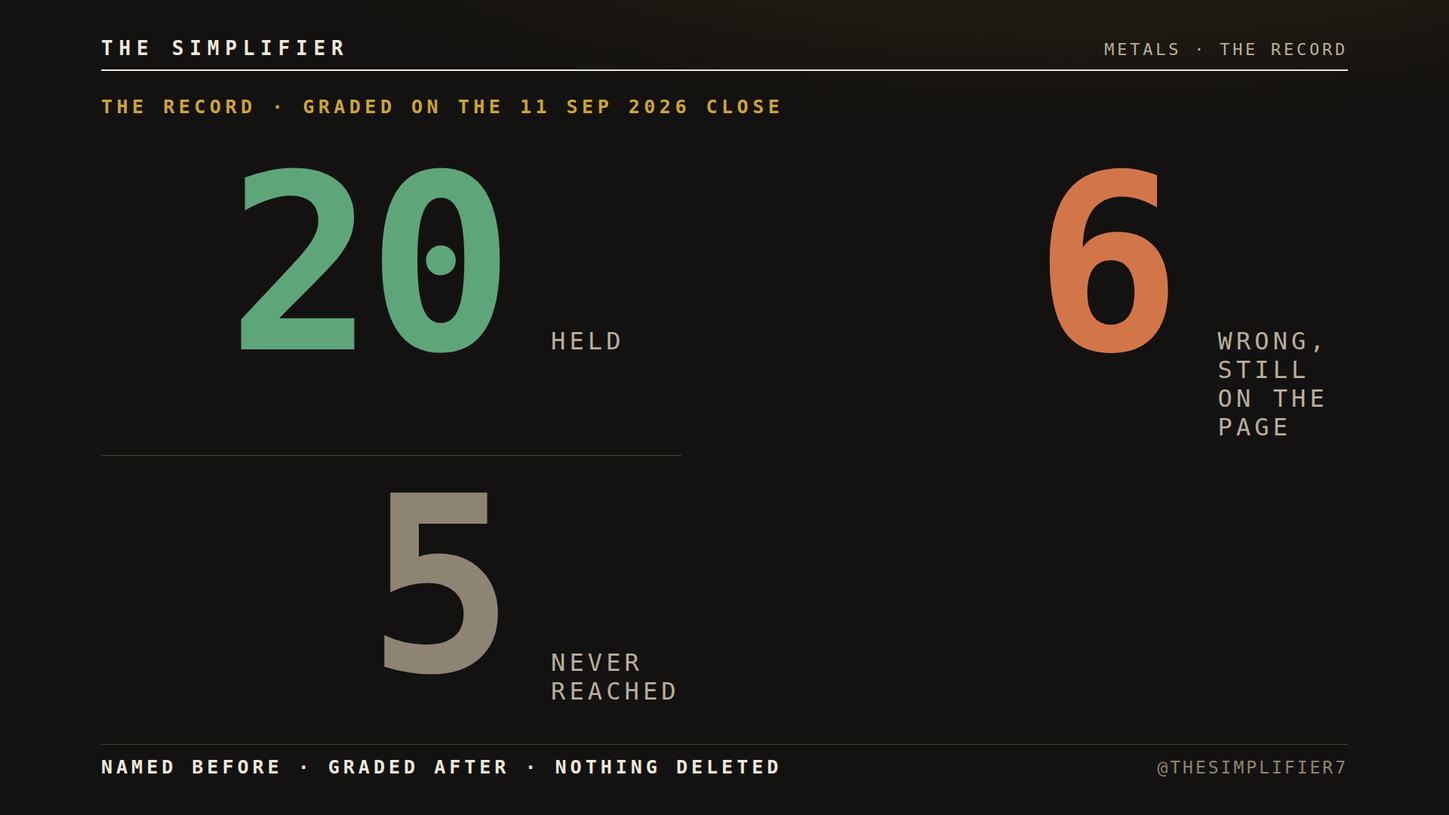
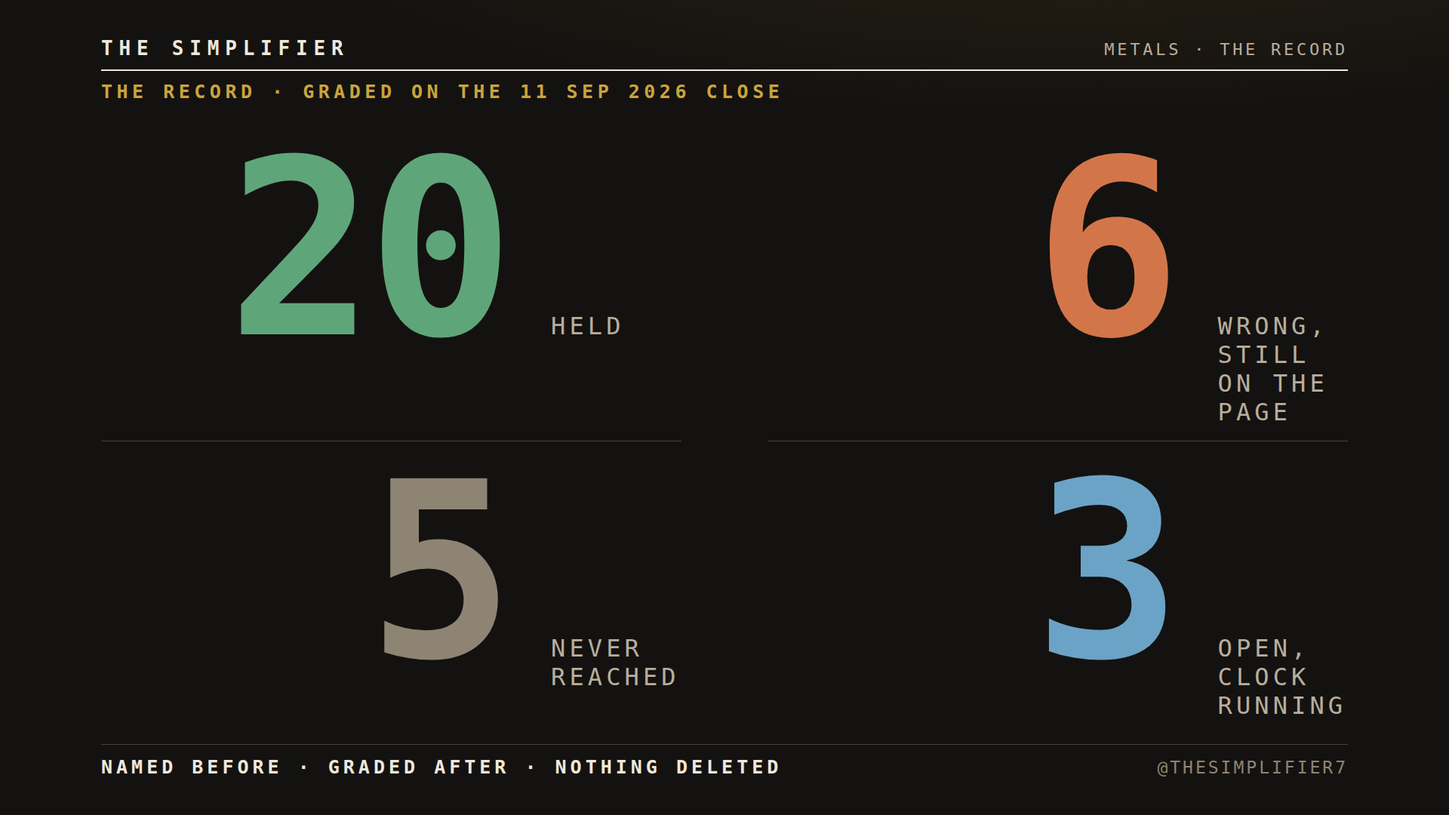
Add files via upload

diff --git a/misses.html b/misses.html
@@ -76,7 +76,7 @@ if(t==="light")document.documentElement.setAttribute("data-theme","light");})();
   </nav>
   <h1>The ones I got wrong.</h1>
   <p class="stand">You have followed a gold call that was wrong and watched it disappear. These did not. Every call on the record that the close proved wrong, in full: the level as named, the kill published with it before the week, the close that fired it, and everything written about it afterwards. They are here because a record that keeps only its wins is not a record.</p>
-  <p class="tally"><b>6</b> wrong · <b>20</b> held · <b>5</b> never reached · 31 rows on the record. The wrong ones are 23 percent of the 26 resolved, stated beside its base because a percentage on a base this size is a small sample and should be read as one.</p>
+  <p class="tally"><b>6</b> wrong · <b>20</b> held · <b>5</b> never reached · <b>3</b> open · 34 rows on the record. The wrong ones are 23 percent of the 26 resolved, stated beside its base because a percentage on a base this size is a small sample and should be read as one.</p>
 
   <section class="miss" id="miss-1">
     <div class="head">
@@ -99,7 +99,7 @@ if(t==="light")document.documentElement.setAttribute("data-theme","light");})();
       </div>
     </div>
     <div class="notes"><div class="lab">What was written about it afterwards</div><details><summary>Note 03 · Correction, 18 July 2026.</summary><p>The Verdict posted 17 July graded the 12 July gold floor claim a pass. The published kill, a weekly close beneath 4,098, had in fact fired at 4,018.44. The correct grade is a miss and the ledger carries it. A third claim from the same map, the stair at 4,305.32, went ungraded in that Verdict and is stated here as no test. The erroneous grades, this correction, and the grading process failure behind them are all logged and all remain.</p></details></div>
-    <p class="row-link"><a href="index.html#lrow-20">This row on the record</a> · <a href="https://github.com/TheSimplifier7/record/commit/a500967">the commit that graded it</a></p>
+    <p class="row-link"><a href="index.html#lrow-23">This row on the record</a> · <a href="https://github.com/TheSimplifier7/record/commit/a500967">the commit that graded it</a></p>
   </section>
 
   <section class="miss" id="miss-2">
@@ -123,7 +123,7 @@ if(t==="light")document.documentElement.setAttribute("data-theme","light");})();
       </div>
     </div>
     
-    <p class="row-link"><a href="index.html#lrow-11">This row on the record</a> · <a href="https://github.com/TheSimplifier7/record/commit/5d671f6">the commit that graded it</a></p>
+    <p class="row-link"><a href="index.html#lrow-14">This row on the record</a> · <a href="https://github.com/TheSimplifier7/record/commit/5d671f6">the commit that graded it</a></p>
   </section>
 
   <section class="miss" id="miss-3">
@@ -147,7 +147,7 @@ if(t==="light")document.documentElement.setAttribute("data-theme","light");})();
       </div>
     </div>
     <div class="notes"><div class="lab">What was written about it afterwards</div><details><summary>Note 08 · Resolution, 7 August 2026. Two wrongs, one untested, and the swing clock in gold turns.</summary><p>Friday 7 August close (TradingView TVC, 23:00 CET): gold 4,342, silver 63.45. The standing ceiling claims at gold 4,098.275 and silver 61.02 both had their kills fire; both are graded wrong and stay on the page. Gold 3,942.430 was never reached and is stated as no test. Gold has been bearish since 13 March. That structure ended on the 7 August close above the 464 swing slow mean at 4,268. From that close the swing clock in gold turns bullish; a weekly close back below 4,268 now kills the new call. Silver remains below its own swing line and continues under the prior claim. Graded per metal under the ruling made before the close. Two rulings disclosed: the swing kill that named both metals in one sentence is graded per metal, and silver 61.02 receives its grade under the same standard applied to every gold restatement. Both rulings taken in the direction that costs this desk more. Tally after this close: twelve correct, three wrong, three never tested.</p></details></div>
-    <p class="row-link"><a href="index.html#lrow-12">This row on the record</a> · <a href="https://github.com/TheSimplifier7/record/commit/5d671f6">the commit that graded it</a></p>
+    <p class="row-link"><a href="index.html#lrow-15">This row on the record</a> · <a href="https://github.com/TheSimplifier7/record/commit/5d671f6">the commit that graded it</a></p>
   </section>
 
   <section class="miss" id="miss-4">
@@ -171,7 +171,7 @@ if(t==="light")document.documentElement.setAttribute("data-theme","light");})();
       </div>
     </div>
     <div class="notes"><div class="lab">What was written about it afterwards</div><details><summary>Note 02 · Standing calls, added 31 July 2026.</summary><p>The directional position runs on a longer clock than a level and resolves on a different question, so it is stated separately and graded separately. Standing calls never enter the tally: averaging a call that runs for months with one that resolves on a Friday would flatter both. Each carries the close that ends it, and every figure beside it carries the date it is measured from. When one ends it stays, with the date and what ended it.</p></details><details><summary>Note 11 · Resolution, 28 August 2026. Two held, one broke, platinum&#39;s first grade, and a ruling on what ends a swing call.</summary><p>Friday 28 August close (TradingView TVC, market shut, read 02:02 to 02:04 CEST on 29 August): gold 4,453.670, silver 66.3700, platinum 1,821.80. Three floors were named on Sunday 23 August with the market shut, each published with the weekly close that would kill it. The gold call passes; the 464 swing slow mean read 4,308.037, the same read as 21 August, and the close sat 145.63 above it. The platinum call passes on the first platinum row this page has ever carried; the line read 1,790.84, the same read as the level named on Sunday, and the close sat 30.96 above it, same method, same rule, third metal. The silver call fails; the line read 66.6600 and the close printed 66.3700, 0.29 under it, so the kill fired exactly as it was published on Sunday night. The row grades wrong and it stays, where every wrong row on this page stays. The standing week-to-week call is restated, not ended, and on 29 August it was restated a second time by a ruling that reached it and not the rows. THE SWING CLOCK TURNS ON A CROSS, NOT A PRICE CLOSE: what dates a turn is the epoch midline crossing the slow mean reversion line, and position against the line is the confirmation, never the trigger. That is not a new idea on this page, it is the standard already applied to the secular clock since 1 August under note 06, extended by the founder to the swing clock and read on his own chart on 29 August. Under it, silver&#39;s swing claim did not end on the 28 August close. Silver closed 0.29 under its line and the structure never turned, so the standing direction stands in all three metals. THE RULING DOES NOT REACH THE ROW, and the distinction is the reason this note is long. The weekly rows are a different object on a different clock: each names a level before the week and publishes a price close as the kill, and each is graded on exactly what it published. The silver row of 23 August named a weekly close back below 66.66 as its kill, the close printed 66.3700, and that kill fired. The row grades WRONG and it stays wrong. Note 01 has said since 3 July that no grade is ever restamped to fit a rulebook written after it, and note 03 is the precedent where this desk applied that in the direction that cost it a win. A desk that re-reads its own rulebook on a Saturday and finds its Friday loss was never a loss has stopped keeping a record. The tally is unchanged by the ruling: eighteen correct, four wrong. What the ruling does change, and this is the process defect worth naming, is that the Sunday rows have been publishing a kill that does not match the method the desk actually trades. The row&#39;s kill was honest, published and fired; it was also the wrong question to ask of a swing claim. From the next Sunday call, a row naming swing direction states the event that truly ends it, and a row naming a price level keeps a price kill and says which of the two it is. Gold&#39;s mark is 2.57% above the 7 August close, down from 6.00% last week. The entry keeps the status live and keeps its stated date of 21 August because nothing was newly stated tonight. Two disclosures with it. First, the paragraph under the standing calls told every reader that silver continues under its own line. That sentence was written on 7 August and was true then. It stopped being true on the 21 August close and was not moved with the entry that night, so it stood stale for one week. It is corrected tonight and logged rather than tidied. Second, platinum&#39;s close and its line read were entered separately from gold&#39;s and silver&#39;s, off the founder&#39;s own chart, because the capture taken at the close had the chart&#39;s own label covered. Platinum&#39;s swing clock is dated from the 19 August close, read off the same chart and supplied on 29 August; for one day this page carried platinum with a graded row and no dated clock, and said so rather than inventing a start. The grade was never in doubt; the two prints were, and they were read before this note published. Tally after this close: eighteen correct, four wrong, five never tested, twenty-seven rows, nothing open.</p></details></div>
-    <p class="row-link"><a href="index.html#lrow-5">This row on the record</a> · <a href="https://github.com/TheSimplifier7/record/commit/2e4ddff">the commit that graded it</a></p>
+    <p class="row-link"><a href="index.html#lrow-8">This row on the record</a> · <a href="https://github.com/TheSimplifier7/record/commit/2e4ddff">the commit that graded it</a></p>
   </section>
 
   <section class="miss" id="miss-5">
@@ -195,7 +195,7 @@ if(t==="light")document.documentElement.setAttribute("data-theme","light");})();
       </div>
     </div>
     <div class="notes"><div class="lab">What was written about it afterwards</div><details><summary>Note 26 · Resolution, 11 September 2026. Two floors broke, both by less than ten dollars, and both stay.</summary><p>Friday 11 September close, read off the founder&#39;s 8h TVC charts stamped 12 September with the market shut, 03:09 CEST for gold and 03:10 for silver and platinum: gold 4,347.760, silver 64.4810, platinum 1,791.50. Two floors were named on 6 September before the week opened, each published with the weekly close that would kill it, and both kills fired. GOLD. The floor was 4,357, taken from a line labelled 4,357.307 and rounded down to the dollar. The close printed 4,347.760, which is 9.24 under the number as published and 9.547 under the line as it reads tonight, unchanged from Sunday. MISS. The rounding is disclosed because the Sunday session raised it as a standard question: rounding a floor down makes the test easier by the cents dropped, 30.7 of them this week. It did not decide anything tonight, because the close sat under the label as well as under the number, and it has not decided any grade on this page. Whether floors round up or print to the cent from here is the founder&#39;s ruling and it will be logged as its own note when he makes it; it changes no grade already written. PLATINUM. The floor was 1,797.40, named on 30 August, held on 4 September, and kept for a second week although the line had drifted five cents under it, because a floor does not follow a line down. The close printed 1,791.50, which is 5.90 under the number as published and 5.85 under the line. MISS. Third row for platinum, first wrong. SILVER, THE ROW THAT IS STILL NOT HERE. The door published on 30 August was a weekly close above 66.80. Tonight silver closed 64.4810 with the line reading 66.6878, so the close sat 2.319 under the door and 2.207 under the line. The condition is not met for a third week and silver carries no row again, stated here rather than left as a gap, for the reason note 17 gave. THE STANDING CARD. All three metals closed under their lines on the same night, gold and platinum for the first time since their clocks turned and silver for the third week running. Under the ruling of 29 August that is confirmation moving against the claim and not the event that ends it; the event is the epoch midline crossing the slow mean reversion line, read off the founder&#39;s chart and dated. No such read has been ruled tonight, so the card stands as last read and says so in its own words. If the founder rules a cross on any metal, the state, the date and the reason go on the card and this note is not edited. THE TALLY. Twenty-six rows resolved, twenty held, six wrong, five never reached, none open. The six wrong rows sit in the ledger below in the same type as the twenty, and misses.html lists them alone. THE TICK BOOK. The first rows in the second ledger, tick.html, are written from Monday 14 September, each posted before the trade and graded on that day&#39;s 23:00 close, under note 25 and the rule printed on that page.</p></details></div>
-    <p class="row-link"><a href="index.html#lrow-0">This row on the record</a> · <a href="https://github.com/TheSimplifier7/record/commit/10cf76a">the commit that graded it</a></p>
+    <p class="row-link"><a href="index.html#lrow-3">This row on the record</a> · <a href="https://github.com/TheSimplifier7/record/commit/10cf76a">the commit that graded it</a></p>
   </section>
 
   <section class="miss" id="miss-6">
@@ -219,7 +219,7 @@ if(t==="light")document.documentElement.setAttribute("data-theme","light");})();
       </div>
     </div>
     <div class="notes"><div class="lab">What was written about it afterwards</div><details><summary>Note 26 · Resolution, 11 September 2026. Two floors broke, both by less than ten dollars, and both stay.</summary><p>Friday 11 September close, read off the founder&#39;s 8h TVC charts stamped 12 September with the market shut, 03:09 CEST for gold and 03:10 for silver and platinum: gold 4,347.760, silver 64.4810, platinum 1,791.50. Two floors were named on 6 September before the week opened, each published with the weekly close that would kill it, and both kills fired. GOLD. The floor was 4,357, taken from a line labelled 4,357.307 and rounded down to the dollar. The close printed 4,347.760, which is 9.24 under the number as published and 9.547 under the line as it reads tonight, unchanged from Sunday. MISS. The rounding is disclosed because the Sunday session raised it as a standard question: rounding a floor down makes the test easier by the cents dropped, 30.7 of them this week. It did not decide anything tonight, because the close sat under the label as well as under the number, and it has not decided any grade on this page. Whether floors round up or print to the cent from here is the founder&#39;s ruling and it will be logged as its own note when he makes it; it changes no grade already written. PLATINUM. The floor was 1,797.40, named on 30 August, held on 4 September, and kept for a second week although the line had drifted five cents under it, because a floor does not follow a line down. The close printed 1,791.50, which is 5.90 under the number as published and 5.85 under the line. MISS. Third row for platinum, first wrong. SILVER, THE ROW THAT IS STILL NOT HERE. The door published on 30 August was a weekly close above 66.80. Tonight silver closed 64.4810 with the line reading 66.6878, so the close sat 2.319 under the door and 2.207 under the line. The condition is not met for a third week and silver carries no row again, stated here rather than left as a gap, for the reason note 17 gave. THE STANDING CARD. All three metals closed under their lines on the same night, gold and platinum for the first time since their clocks turned and silver for the third week running. Under the ruling of 29 August that is confirmation moving against the claim and not the event that ends it; the event is the epoch midline crossing the slow mean reversion line, read off the founder&#39;s chart and dated. No such read has been ruled tonight, so the card stands as last read and says so in its own words. If the founder rules a cross on any metal, the state, the date and the reason go on the card and this note is not edited. THE TALLY. Twenty-six rows resolved, twenty held, six wrong, five never reached, none open. The six wrong rows sit in the ledger below in the same type as the twenty, and misses.html lists them alone. THE TICK BOOK. The first rows in the second ledger, tick.html, are written from Monday 14 September, each posted before the trade and graded on that day&#39;s 23:00 close, under note 25 and the rule printed on that page.</p></details></div>
-    <p class="row-link"><a href="index.html#lrow-1">This row on the record</a> · <a href="https://github.com/TheSimplifier7/record/commit/10cf76a">the commit that graded it</a></p>
+    <p class="row-link"><a href="index.html#lrow-4">This row on the record</a> · <a href="https://github.com/TheSimplifier7/record/commit/10cf76a">the commit that graded it</a></p>
   </section>
   <p class="after">Two of these six were the same idea, restated for weeks while it held, and then wrong. The record says so in <a href="index.html#note-13">note 13</a>, which counts the calls by level as well as by week because the weekly count flatters this desk and the level count does not. Read both before you decide what the green rows are worth.</p>
   <p class="law"><a href="index.html">Every row, including these</a> · Named before · Graded after · Nothing deleted</p>

diff --git a/index.html b/index.html
@@ -1311,7 +1311,7 @@
       <div class="lab">Graded wrong, still on this page</div>
     </div>
     <div class="stat">
-      <div class="num blue" id="t-open">0</div>
+      <div class="num blue" id="t-open">3</div>
       <div class="lab">Open, clock running</div>
     </div>
   </section>
@@ -1654,7 +1654,7 @@
    posted call before it goes live. This page is the whole brand in one place.
    ========================================================================= */
 
-const LAST_UPDATED  = "2026-09-13";   /* set by hand, with the commit */
+const LAST_UPDATED  = "2026-09-20";   /* set by hand, with the commit. WAS "2026-09-13" until the 20 September upload */
 
 /* =========================================================================
    PROVENANCE  ·  which commit wrote each grade, added 4 Sep 2026
@@ -1692,6 +1692,10 @@ const PROVENANCE = {
      Graded on the 11 September close, written 12 September. Named by the
      day rather than by a hash because the hash does not exist until the
      push that writes this line; swap in the hash on the next push. */
+  /* Three rows named 20 September, open, written before the week they grade.
+     The week of 13 September carried no rows (note 28), so there is no
+     13 September entry here and none is owed. */
+  "2026-09-20": { written:"2026-09-20", open:true },
   /* WAS, until the hash of the 12 September push was known:
        "2026-09-06": { graded:"2026-09-11", written:"2026-09-12", dayLink:true }, */
   "2026-09-06": { graded:"2026-09-11", written:"2026-09-12", commit:"10cf76a" },
@@ -2254,6 +2258,42 @@ const STANDING = [
 
 const CALLS = [
 
+  /* WEEK OF 20 SEPTEMBER. Three rows, open, written before the week they
+     grade, and the object changes tonight by the founder's ruling (note 29).
+     From this week the rows name the OPENING BOX: the first sixteen hours of
+     each week, boxed and frozen, its edges run right for the rest of the week,
+     drawn by THE METHOD v4.0 shipped 20 September. The 464 swing slow mean
+     floors and the three doors of 13 September are retired as the weekly
+     object. Their last reads on the 18 September close are stated in the
+     block below and in note 29; nothing is deleted.
+
+     Box of the week of 14 September, read off the founder's own 8h TVC charts
+     stamped 20 September, market shut, 23:19 CEST (gold, silver) and 23:20
+     (platinum), published to the dollar and the cent as written on each row:
+       gold      4,251 to 4,337   closed 4,377.290, out the top by 40
+       silver    62.31 to 64.08   closed 66.2210,  out the top by 2.14
+       platinum  1,746 to 1,803   closed 1,800.40, inside, 2.60 under the top
+     A metal that left its box through the top holds the top. Platinum, still
+     inside, holds the bottom, and its top is named on the row so the reader
+     has both edges. Each row is graded on the number as published.
+
+     Where each new line sits against the door it replaces, stated so nobody
+     finds it later: gold 4,337 is 20 under 4,357; silver 64.08 is 2.72 under
+     66.80; platinum 1,746 is 51.40 under 1,797.40.
+
+     Grade Friday 25 September at the 23:00 CEST close. */
+  { date:"2026-09-20", type:"Map", metal:"Gold", level:"4,337", book:"Turn",
+    call:"Gold holds above 4,337, the top of the box it opened the week of 14 September in, read off the 8h chart on 20 September and published as 4,337. The Fed wick of 16 September went under the bottom of that box without a close; gold then left it through the top and finished the week 40 above it at 4,377.290. First row on the opening box, the object the record moves to tonight by the founder's ruling (note 29). Under the ruling in note 11 this is a claim about a price level and not a claim about the swing clock, so it keeps a price kill and it is graded on the close alone. Named before the week opened. Kill: a weekly close below 4,337.",
+    grade:"pending" },
+
+  { date:"2026-09-20", type:"Map", metal:"Silver", level:"64.08", book:"Turn",
+    call:"Silver holds above 64.08, the top of the box it opened the week of 14 September in, read off the 8h chart on 20 September and published as 64.08. Silver left that box through the top and finished the week 2.14 above it at 66.2210. First row for silver since 23 August. The retired door of 66.80 sits 2.72 above this line, and that is said here rather than left for a reader to find (note 29). Under the ruling in note 11 this is a claim about a price level and not a claim about the swing clock, so it keeps a price kill and it is graded on the close alone. Named before the week opened. Kill: a weekly close below 64.08.",
+    grade:"pending" },
+
+  { date:"2026-09-20", type:"Map", metal:"Platinum", level:"1,746", book:"Turn",
+    call:"Platinum holds above 1,746, the bottom of the box it opened the week of 14 September in, read off the 8h chart on 20 September and published as 1,746. Platinum is the one metal that finished the week inside its box, 1,800.40 against a top of 1,803, so the row names the edge that would take it out the bottom and states the top so the reader has both. Fourth row for platinum on this page. Under the ruling in note 11 this is a claim about a price level and not a claim about the swing clock, so it keeps a price kill and it is graded on the close alone. Named before the week opened. Kill: a weekly close below 1,746.",
+    grade:"pending" },
+
   /* WEEK OF 13 SEPTEMBER. No rows. Three conditions. The first week this page
      has carried nothing open, and the absence is the ruling, not a gap.
      The 11 September close graded gold wrong by 9.24 against 4,357 and
@@ -2268,7 +2308,13 @@ const CALLS = [
      Closes read off the founder's own 8h TVC charts stamped 13 September,
      market shut, 21:54 to 21:57 CEST: gold 4,347.760, silver 64.4810,
      platinum 1,791.50. No new figure is named. See note 28.
-     Conditions read Friday 18 September at the 23:00 CEST close. */
+     Conditions read Friday 18 September at the 23:00 CEST close.
+     READ on the 18 September close, off the founder's 8h TVC charts stamped
+     19 September, market shut, 00:06 and 00:07 CEST (note 29): gold 4,377.290,
+     met; platinum 1,800.40, met; silver 66.2210, not met, a fourth Friday.
+     The same night the founder retired the doors with the object they belonged
+     to, so no floor is carried forward from them; the week of 20 September
+     above names the opening box instead, and the last reads stay here. */
 
   /* WEEK OF 6 SEPTEMBER. Two rows, open, written before the week they grade.
      Silver carries no row for a third week: the condition published on 30
@@ -2712,6 +2758,9 @@ const GUEST = [
 ];
 
 const NOTES = [
+  { n:"29", kind:"standard", title:"Map of 20 September 2026. The rows move to the opening box, by the founder's ruling, and the three doors are closed out.",
+    body:"Friday 18 September close, read off the founder's own 8h TVC charts stamped 19 September with the market shut, 00:06 CEST for gold and silver and 00:07 for platinum: gold 4,377.290, silver 66.2210, platinum 1,800.40. No row was open. Note 28 named three conditions in place of rows and said they would be read tonight. Read: gold closed 20.29 above its door of 4,357, met; platinum 3.00 above 1,797.40, met; silver 0.579 under 66.80, not met, the fourth Friday running. THE RULING. On 20 September the founder retired the 464 swing slow mean floors as the object the weekly rows are named on. From tonight the rows name the opening box: the first sixteen hours of each week, Sunday's open through Monday's Asia and London morning, boxed and frozen, with its edges run right for the rest of the week, drawn by THE METHOD v4.0 shipped the same day. A metal that closed the week above the top of its box holds the top. A metal still inside holds the bottom and has its top stated beside it. The kill is what it has always been, a weekly close through the published number, and the grade is on the number as published. THE DOORS ARE CLOSED OUT, NOT CARRIED. Gold and platinum met theirs on this close and would have earned floors back under note 28; those floors are not named, because the object they belonged to is retired the same night, and a floor carried from a retired object would be one number living under two rules. Silver's door was not met on four Fridays and is retired unmet. All three last reads stand in the ledger and here. WHERE THE NEW LINES SIT. Every new line is under the door it replaces and the figures are given so nobody finds them later: gold 4,337 against 4,357, twenty under; silver 64.08 against 66.80, 2.72 under; platinum 1,746 against 1,797.40, 51.40 under. Notes 16, 17 and 28 refused to lower a broken floor within one object, and that rule stands within the new one: a box edge that breaks is not replaced by a lower edge the following Sunday. Tonight is a change of object, ruled and logged, not a lowering inside one. THE BOX OF 14 SEPTEMBER, read off the founder's 8h TVC charts stamped 20 September, market shut, 23:19 CEST for gold and silver and 23:20 for platinum: gold 4,251 to 4,337, the Fed wick of 16 September under the bottom without a close, the week closed out the top by 40; silver 62.31 to 64.08, closed out the top by 2.14; platinum 1,746 to 1,803, closed inside, 2.60 under the top. Published to the dollar and to the cent as written on each row and graded on those numbers. THE STANDING CARD stands at the 11 September read. It is graded on the swing clock, a different object on a different rule, and the 18 September charts carried no read of its line, so it is not refreshed tonight rather than refreshed against a line nobody read. Stated here the way note 19 stated a stale card on 6 September. Three rows are named for the week of 20 September, gold 4,337, silver 64.08 and platinum 1,746, written to this file before the week opened." },
+
   { n:"28", kind:"standard", title:"Map of 13 September 2026. Three doors and no floor, the first week with nothing open.",
     body:"The 11 September close graded gold and platinum wrong by 9.24 and 5.90 (note 26). Silver's floor broke on 28 August by 3.3 percent (note 11), and the map of 30 August did not replace it with a lower number; it published a door, a weekly close above 66.80, and the door has not been met on three Fridays or lowered on any of them (notes 16, 17). Tonight the same rule is applied to gold and platinum. A broken floor is not replaced by a lower one. Gold's door is 4,357 and platinum's is 1,797.40, the numbers that broke, and neither comes down to meet the price. The rule was written at a 3.3 percent break and is applied at 0.21 and 0.33 without adjustment, because a rule that is obeyed only when it costs nothing is not a rule. No row is named tonight. This is the first week the page carries nothing open, and the absence is stated here rather than left for a reader to explain to himself. The three conditions are read on the 18 September close: a metal whose weekly close prints above its door earns a floor back on the map of 20 September, read off the chart that night. The fixed frame of the Sunday map, one number on the page, is not spoken this week; the reason there is none takes its place. Closes read off the founder's own 8h TVC charts stamped 13 September with the market shut, 21:54 to 21:57 CEST: gold 4,347.760, silver 64.4810, platinum 1,791.50." },
 

diff --git a/tally_card_vertical_dark.html b/tally_card_vertical_dark.html
@@ -45,7 +45,7 @@
       <div class="stat"><span class="num pass">20</span><span class="lab">held</span></div>
       <div class="stat"><span class="num miss">6</span><span class="lab">wrong, still on the page</span></div>
       <div class="stat"><span class="num nr">5</span><span class="lab">never reached</span></div>
-      
+      <div class="stat"><span class="num open">3</span><span class="lab">open, clock running</span></div>
     </div>
   </div>
   <div class="foot stack"><span class="law">Named before · Graded after · Nothing deleted</span><span class="handle">@TheSimplifier7</span></div>

diff --git a/tally_card_landscape_dark.html b/tally_card_landscape_dark.html
@@ -45,7 +45,7 @@
       <div class="stat"><span class="num pass">20</span><span class="lab">held</span></div>
       <div class="stat"><span class="num miss">6</span><span class="lab">wrong, still on the page</span></div>
       <div class="stat"><span class="num nr">5</span><span class="lab">never reached</span></div>
-      
+      <div class="stat"><span class="num open">3</span><span class="lab">open, clock running</span></div>
     </div>
   </div>
   <div class="foot"><span class="law">Named before · Graded after · Nothing deleted</span><span class="handle">@TheSimplifier7</span></div>
